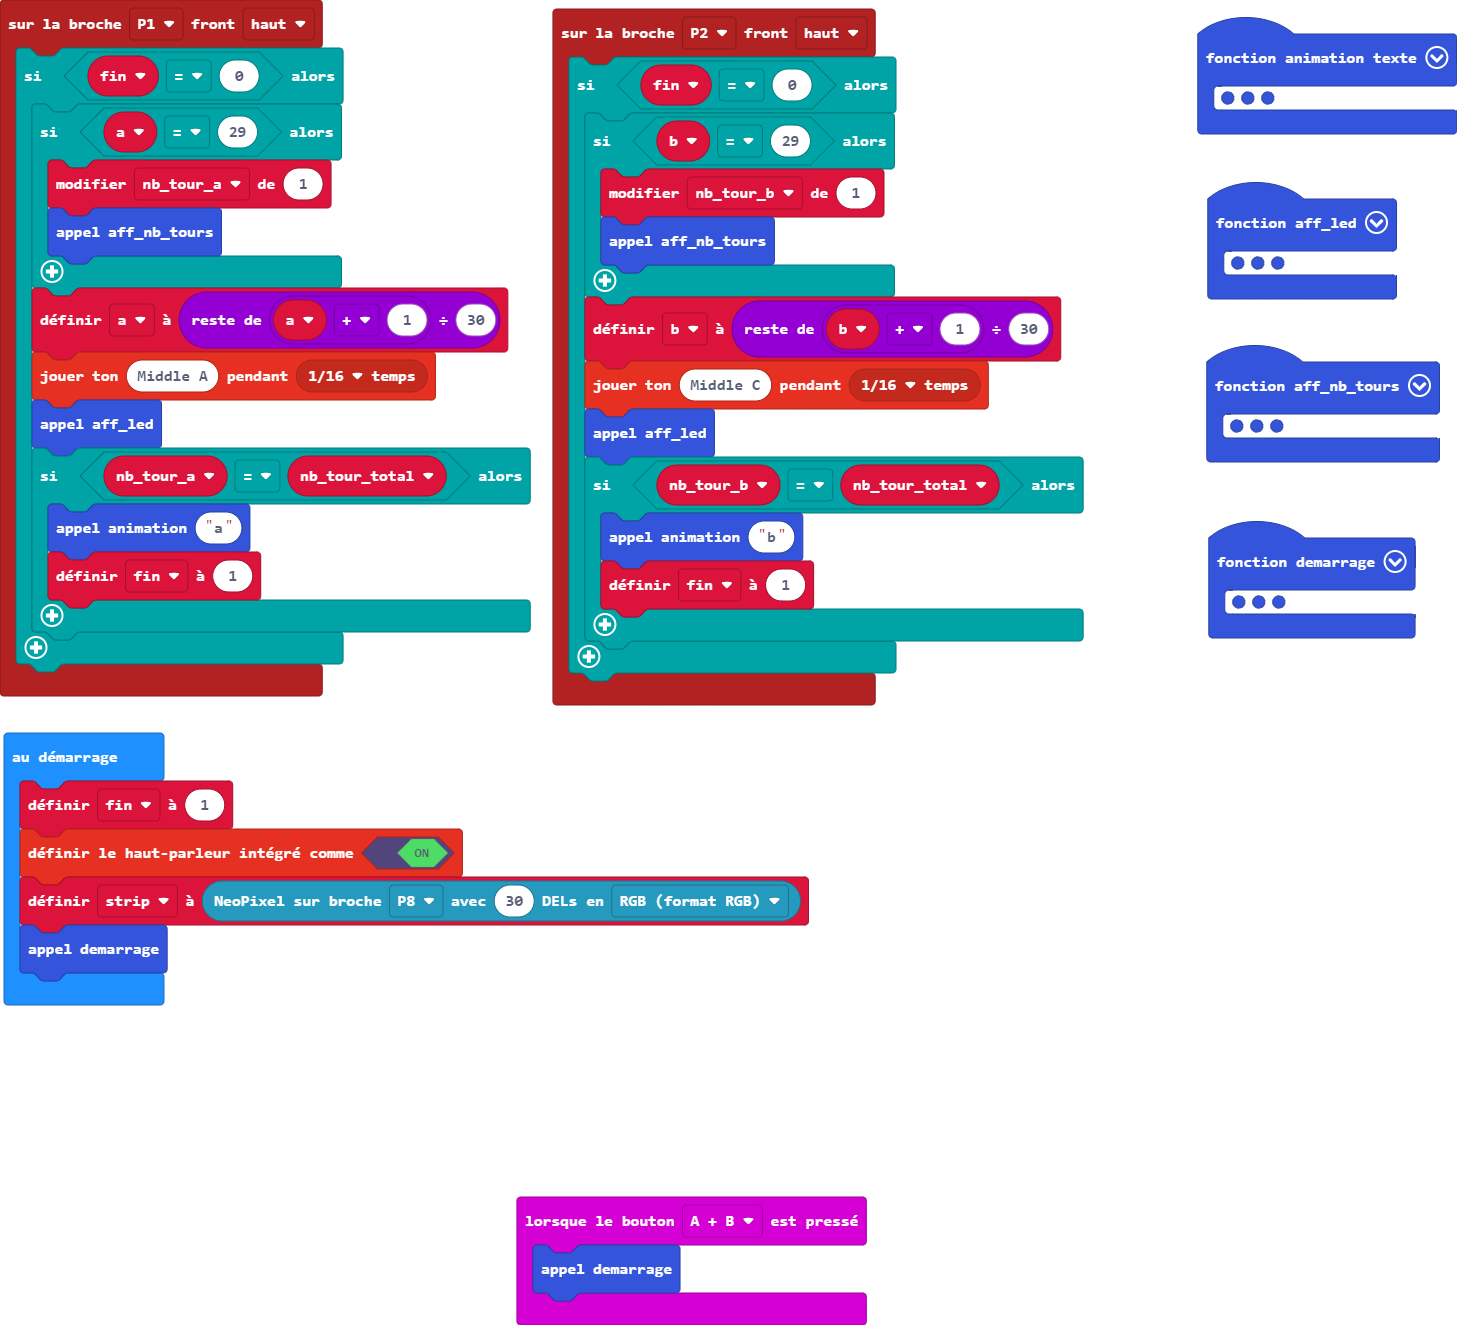
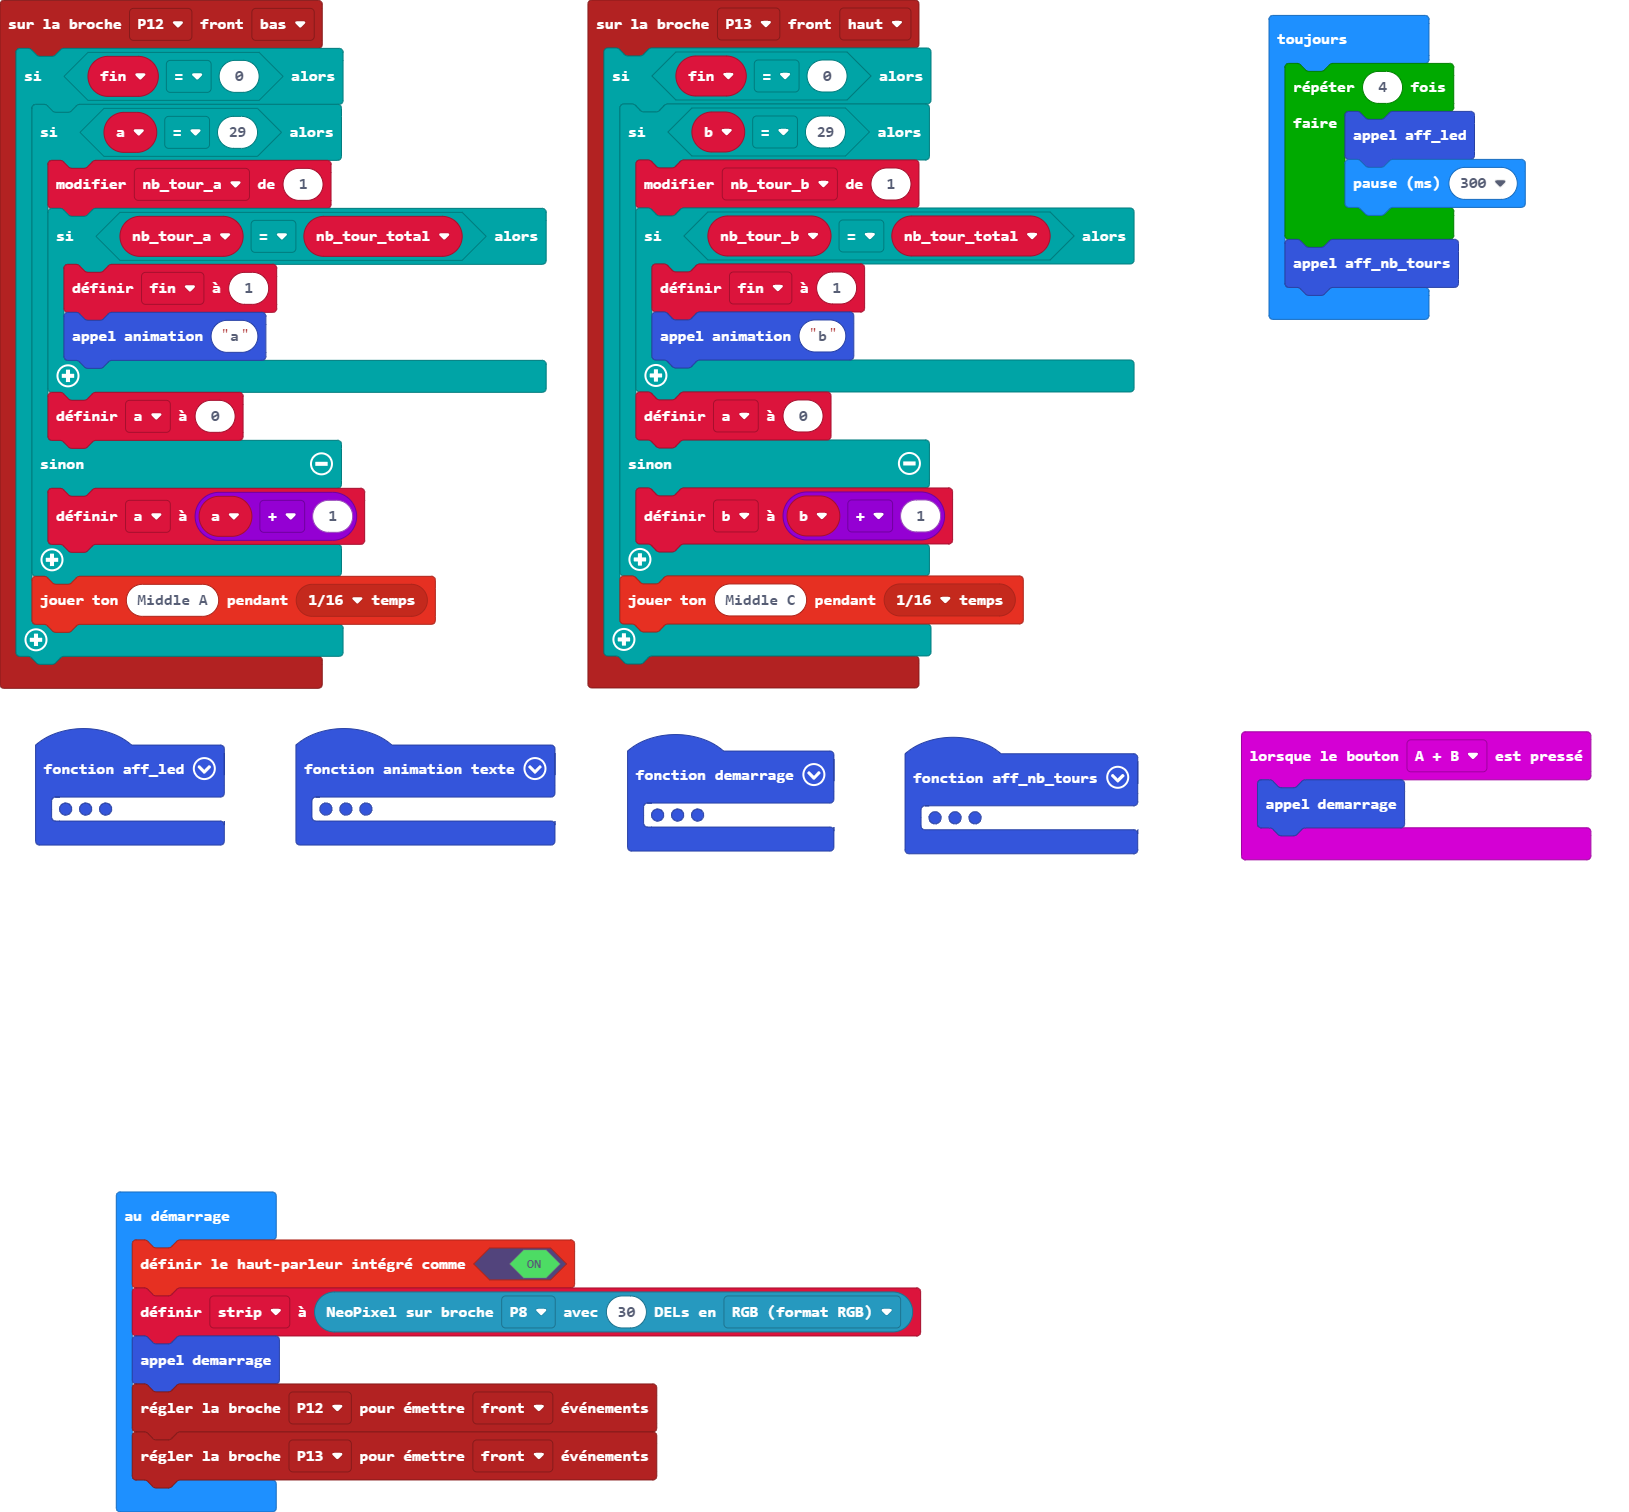
Mise à jour main.blocks, main.ts

diff --git a/main.ts b/main.ts
@@ -15,40 +15,11 @@ function aff_nb_tours () {
         basic.showNumber(nb_tour_b)
     }
 }
-pins.onPulsed(DigitalPin.P1, PulseValue.High, function () {
-    if (fin == 0) {
-        if (a == 29) {
-            nb_tour_a += 1
-            aff_nb_tours()
-        }
-        a = (a + 1) % 30
-        music.playTone(440, music.beat(BeatFraction.Sixteenth))
-        aff_led()
-        if (nb_tour_a == nb_tour_total) {
-            animation("a")
-            fin = 1
-        }
-    }
-})
-pins.onPulsed(DigitalPin.P2, PulseValue.High, function () {
-    if (fin == 0) {
-        if (b == 29) {
-            nb_tour_b += 1
-            aff_nb_tours()
-        }
-        b = (b + 1) % 30
-        music.playTone(262, music.beat(BeatFraction.Sixteenth))
-        aff_led()
-        if (nb_tour_b == nb_tour_total) {
-            animation("b")
-            fin = 1
-        }
-    }
-})
 input.onButtonPressed(Button.AB, function () {
     demarrage()
 })
 function demarrage () {
+    fin = 1
     strip.clear()
     strip.show()
     a = 0
@@ -65,6 +36,21 @@ function demarrage () {
     basic.showIcon(IconNames.Happy)
     fin = 0
 }
+pins.onPulsed(DigitalPin.P13, PulseValue.High, function () {
+    if (fin == 0) {
+        if (b == 29) {
+            nb_tour_b += 1
+            if (nb_tour_b == nb_tour_total) {
+                fin = 1
+                animation("b")
+            }
+            a = 0
+        } else {
+            b = b + 1
+        }
+        music.playTone(262, music.beat(BeatFraction.Sixteenth))
+    }
+})
 function aff_led () {
     strip.clear()
     if (a == b) {
@@ -75,15 +61,38 @@ function aff_led () {
     }
     strip.show()
 }
+pins.onPulsed(DigitalPin.P12, PulseValue.Low, function () {
+    if (fin == 0) {
+        if (a == 29) {
+            nb_tour_a += 1
+            if (nb_tour_a == nb_tour_total) {
+                fin = 1
+                animation("a")
+            }
+            a = 0
+        } else {
+            a = a + 1
+        }
+        music.playTone(440, music.beat(BeatFraction.Sixteenth))
+    }
+})
 let rebours = 0
-let b = 0
 let nb_tour_total = 0
+let b = 0
 let a = 0
+let fin = 0
 let nb_tour_b = 0
 let nb_tour_a = 0
 let strip: neopixel.Strip = null
-let fin = 0
-fin = 1
 music.setBuiltInSpeakerEnabled(true)
 strip = neopixel.create(DigitalPin.P8, 30, NeoPixelMode.RGB)
 demarrage()
+pins.setEvents(DigitalPin.P12, PinEventType.Edge)
+pins.setEvents(DigitalPin.P13, PinEventType.Edge)
+basic.forever(function () {
+    for (let index = 0; index < 4; index++) {
+        aff_led()
+        basic.pause(300)
+    }
+    aff_nb_tours()
+})
